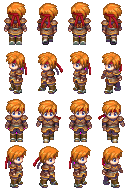
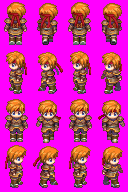
Added texture color keying support

diff --git a/src/storm/core/graphics/SDL2/cTextureSDL2.cpp b/src/storm/core/graphics/SDL2/cTextureSDL2.cpp
@@ -19,7 +19,9 @@ cTextureSDL2::cTextureSDL2() : m_Texture(nullptr), m_IsSplit(false),
 }
 cTextureSDL2::~cTextureSDL2() {
 }
-int cTextureSDL2::Load() {
+int cTextureSDL2::Load(uint8_t keyR /*= 0*/, 
+                       uint8_t keyG /*= 0*/, 
+                       uint8_t keyB /*= 0*/) {
     SDL_Surface *tmpSur = IMG_Load(m_Filename.c_str());
     if (tmpSur == nullptr) {
         S_LogError("cTextureSDL2", 
@@ -39,6 +41,12 @@ int cTextureSDL2::Load() {
         return -2;
     }
     
+    if (keyR > 0 || keyG > 0 || keyB > 0) {
+        // Sets texture color key, if keying is enabled
+        uint32_t tmpKey = SDL_MapRGB(tmpSur->format, keyR, keyG, keyB); 
+        SDL_SetColorKey(tmpSur, SDL_TRUE, tmpKey);
+    }
+
     m_Texture = MakeTexture(tmpSur, m_MemoryUsage);
     
     SDL_FreeSurface(tmpSur);

diff --git a/src/storm/core/graphics/cTextureManager.cpp b/src/storm/core/graphics/cTextureManager.cpp
@@ -4,7 +4,10 @@
 namespace StormFramework {
 
 
-cTextureManager::cTextureManager() : m_MemoryUsage(0) {
+cTextureManager::cTextureManager() : 
+        m_MemoryUsage(0),
+        m_UseColorKeying(true),
+        m_KeyR(255), m_KeyG(0), m_KeyB(255) {
 }
 cTextureManager::~cTextureManager() {
     for (auto &i : m_Textures) {
@@ -158,7 +161,13 @@ cTextureBase *cTextureManager::CreateAndLoad(const std::string &filename) {
         return nullptr;
     }
     texture->SetFilename(filename);
-    if (texture->Load() <= 0) {
+    int status = 0;
+    if (m_UseColorKeying) {
+        status = texture->Load(m_KeyR, m_KeyG, m_KeyB);
+    } else {
+        status = texture->Load();
+    }
+    if (status <= 0) {
         delete texture;
         return nullptr;
     }

diff --git a/src/storm/core/graphics/cTextureBase.h b/src/storm/core/graphics/cTextureBase.h
@@ -14,12 +14,15 @@ namespace StormFramework {
 
 class cTextureBase {
 public:
-    cTextureBase() : m_Filename(""), m_Usage(0), 
+    cTextureBase() : m_Filename(""), m_Usage(0),
                      m_MemoryUsage(0), m_DeleteCbId(0) { }
     virtual ~cTextureBase() { Unload(); }
     
-    /* Return > 0 on success, or -1 on error */
-    virtual int Load() { return 0; }
+    // Return > 0 on success, or -1 on error
+    // keyR,G,B are transparency color keys.
+    virtual int Load(uint8_t keyR = 0, 
+                     uint8_t keyG = 0, 
+                     uint8_t keyB = 0) { return 0; }
     virtual void Unload() { }
     bool Reload() {
         S_LogDebug("cTextureBase", "Reloading texture...");

diff --git a/src/storm/core/graphics/cTextureManager.h b/src/storm/core/graphics/cTextureManager.h
@@ -64,6 +64,9 @@ private:
     // Default texture center (0, 0)
     // This variable is created for optimization purposes only
     sPoint m_DefCenter;
+    // Default color key values
+    bool m_UseColorKeying;
+    uint8_t m_KeyR, m_KeyG, m_KeyB;
     
     // Returns pointer to new (empty) TextureObject created for active api
     cTextureBase *CreateTextureObject();

diff --git a/src/storm/core/graphics/SDL2/cTextureSDL2.h b/src/storm/core/graphics/SDL2/cTextureSDL2.h
@@ -22,7 +22,9 @@ public:
     cTextureSDL2();
     ~cTextureSDL2();
     
-    int Load();
+    int Load(uint8_t keyR = 0, 
+             uint8_t keyG = 0, 
+             uint8_t keyB = 0);
     void Unload();
     void Draw(const int &srcX, const int &srcY, 
               const int &srcW, const int &srcH,
